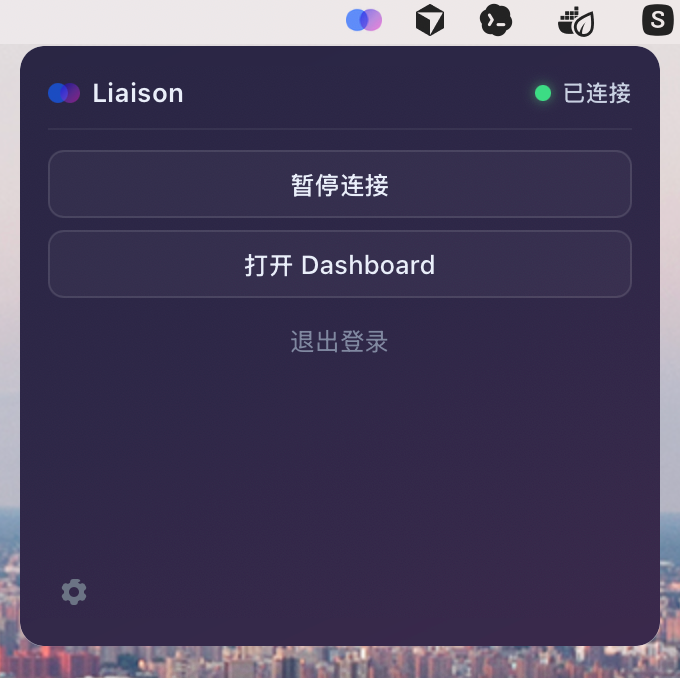
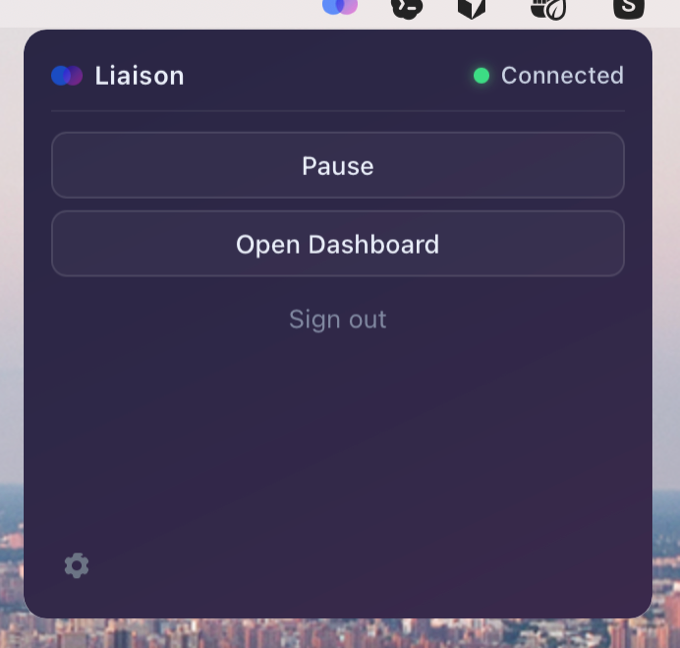
docs(readme): refresh desktop screenshots; split en/zh popup images
Replaces popup-macos.png and popup-windows.png with new 680-wide
shots that show the resize-fixed settings flow under the English
locale. Adds popup-macos-zh.png and popup-windows-zh.png for the
Chinese-locale versions, and points README_zh.md at those instead
of the (now English) shared files.

All four shots are normalized to 680px wide before commit so the
side-by-side table renders both panes at the same width in any
locale's README.

diff --git a/README_zh.md b/README_zh.md
@@ -101,7 +101,7 @@ cd liaison-1.5.0-docker-amd64
 
 | macOS | Windows |
 |:---:|:---:|
-| <img src="docs/images/desktop-client/popup-macos.png" alt="Liaison Desktop on macOS" width="360" /> | <img src="docs/images/desktop-client/popup-windows.png" alt="Liaison Desktop on Windows" width="360" /> |
+| <img src="docs/images/desktop-client/popup-macos-zh.png" alt="Liaison Desktop 在 macOS" width="360" /> | <img src="docs/images/desktop-client/popup-windows-zh.png" alt="Liaison Desktop 在 Windows" width="360" /> |
 
 </div>
 
